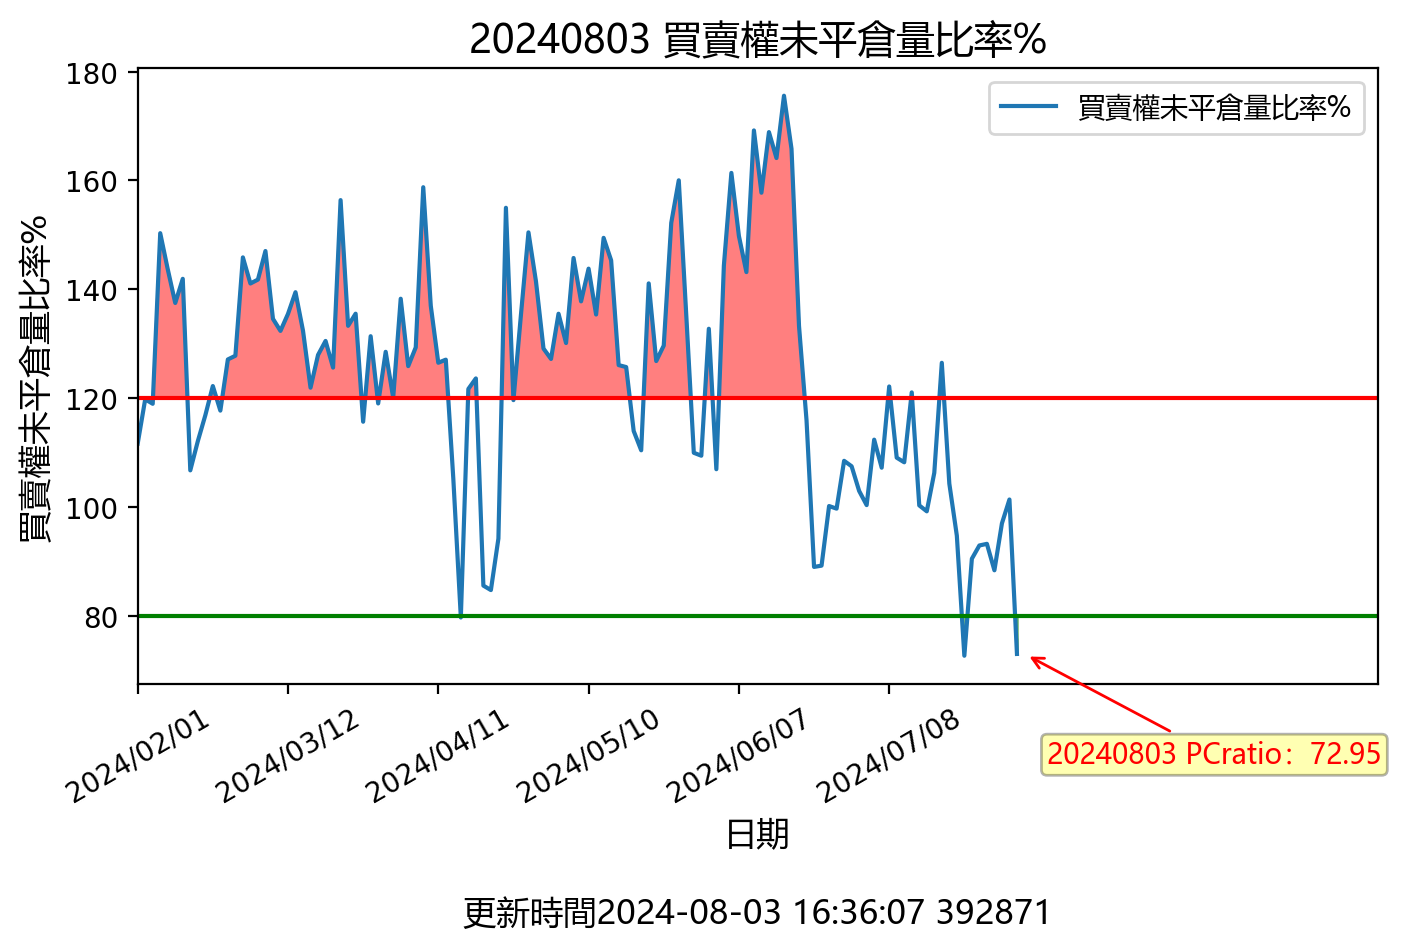
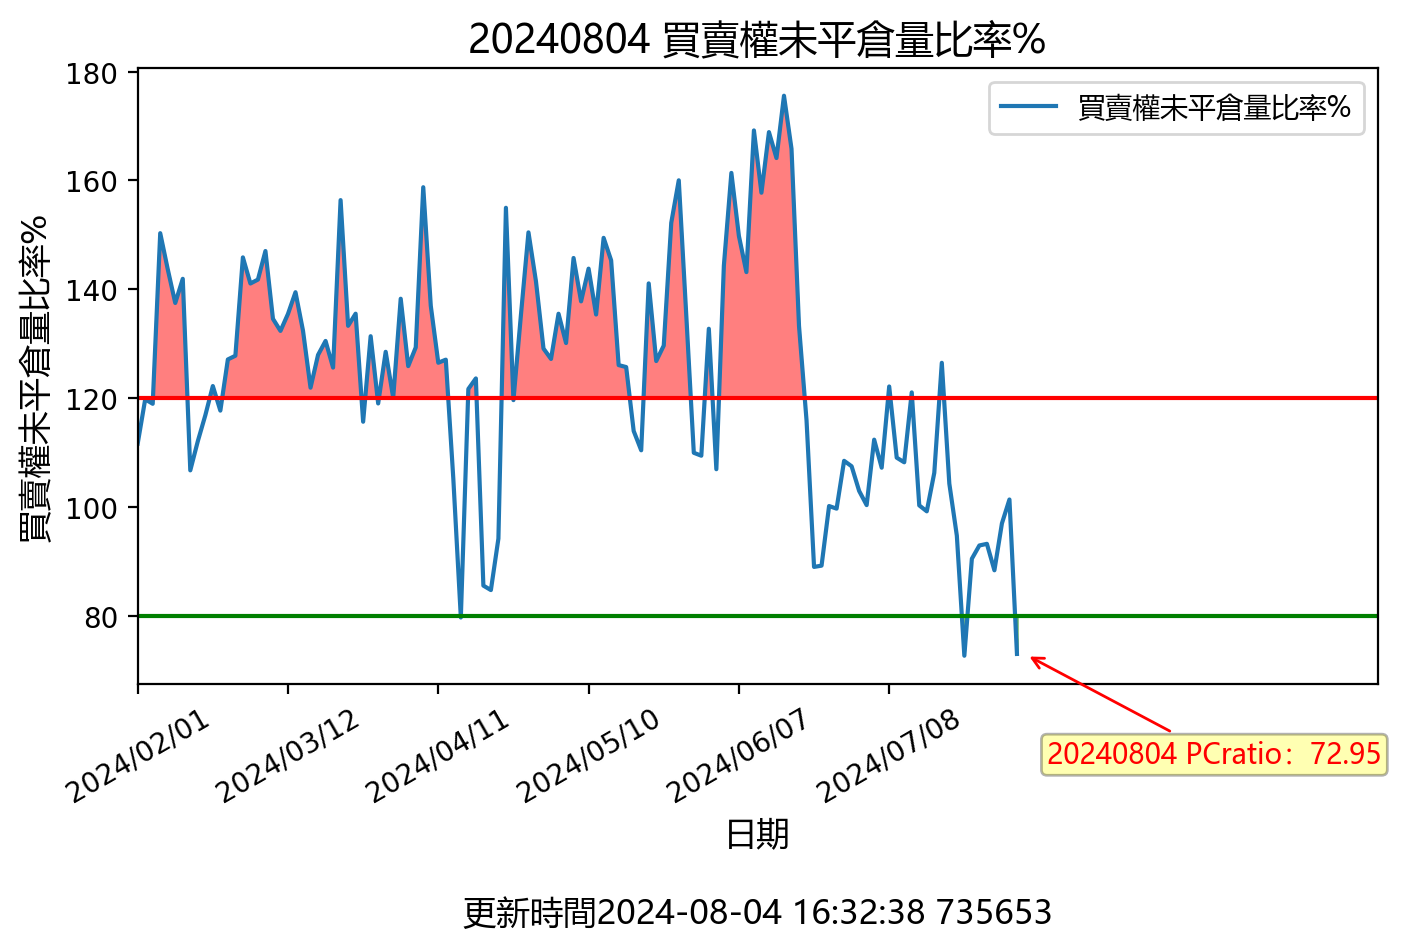
更新時間: Sun Aug  4 16:32:54 CST 2024

Changed region(s): [[0.3376, 0.0305, 0.7366, 0.061], [0.6138, 0.9453, 0.7673, 0.9758], [0.5218, 0.9453, 0.5832, 0.9758]]

diff --git a/README.md b/README.md
@@ -1,12 +1,12 @@
-## 20240803 台指期「預估換倉成本」
+## 20240804 台指期「預估換倉成本」
 ![](images/txfcost.png)
 
-## 20240803 台指期「散戶小台多空比」
+## 20240804 台指期「散戶小台多空比」
 ![](images/bbiri.png)
 
-## 20240803 台指選擇權「Put/Call Ratios」
+## 20240804 台指選擇權「Put/Call Ratios」
 ![](images/pcratio.png)
 
-## 20240803 台指期「大額交易人」
+## 20240804 台指期「大額交易人」
 ![](images/blocktrade.png)
 
